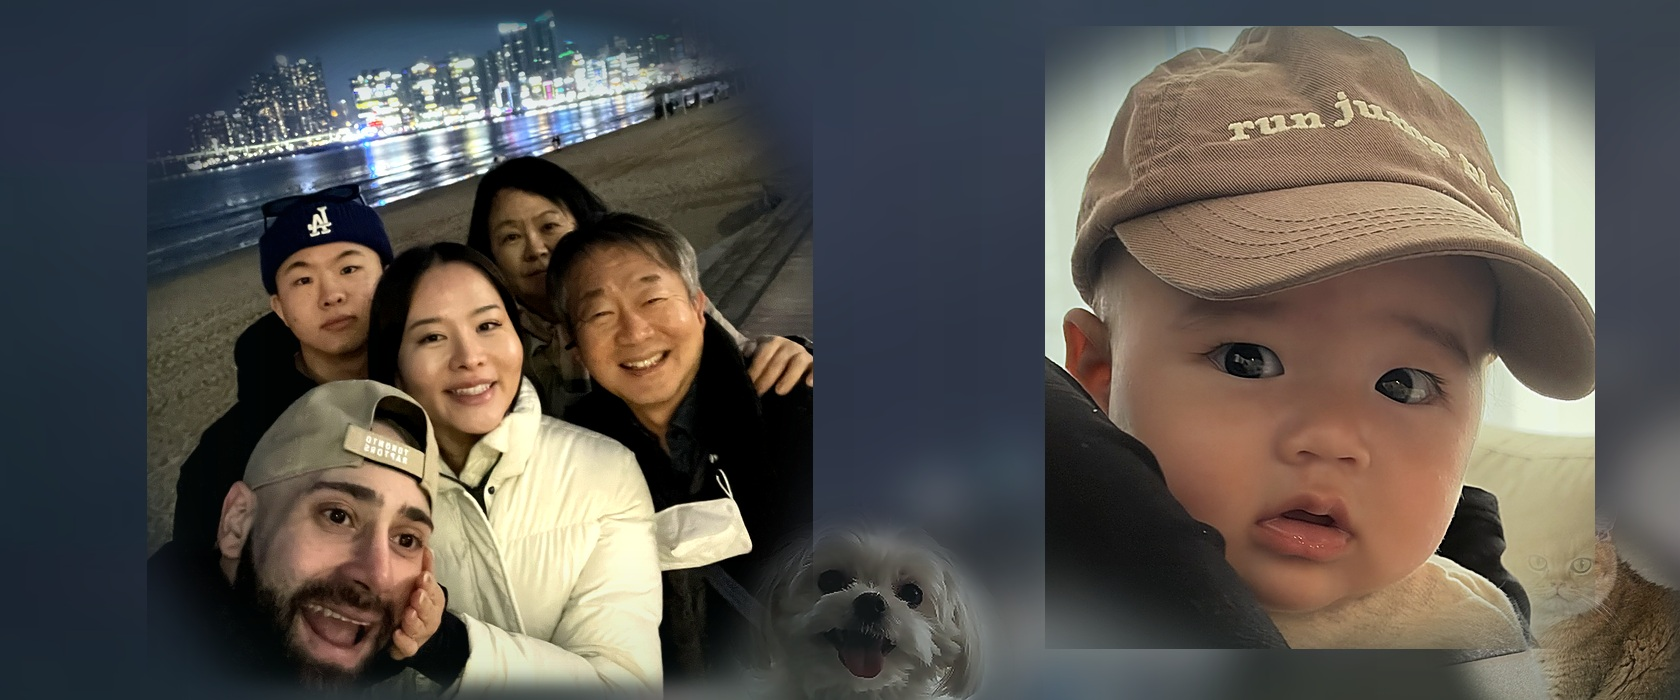
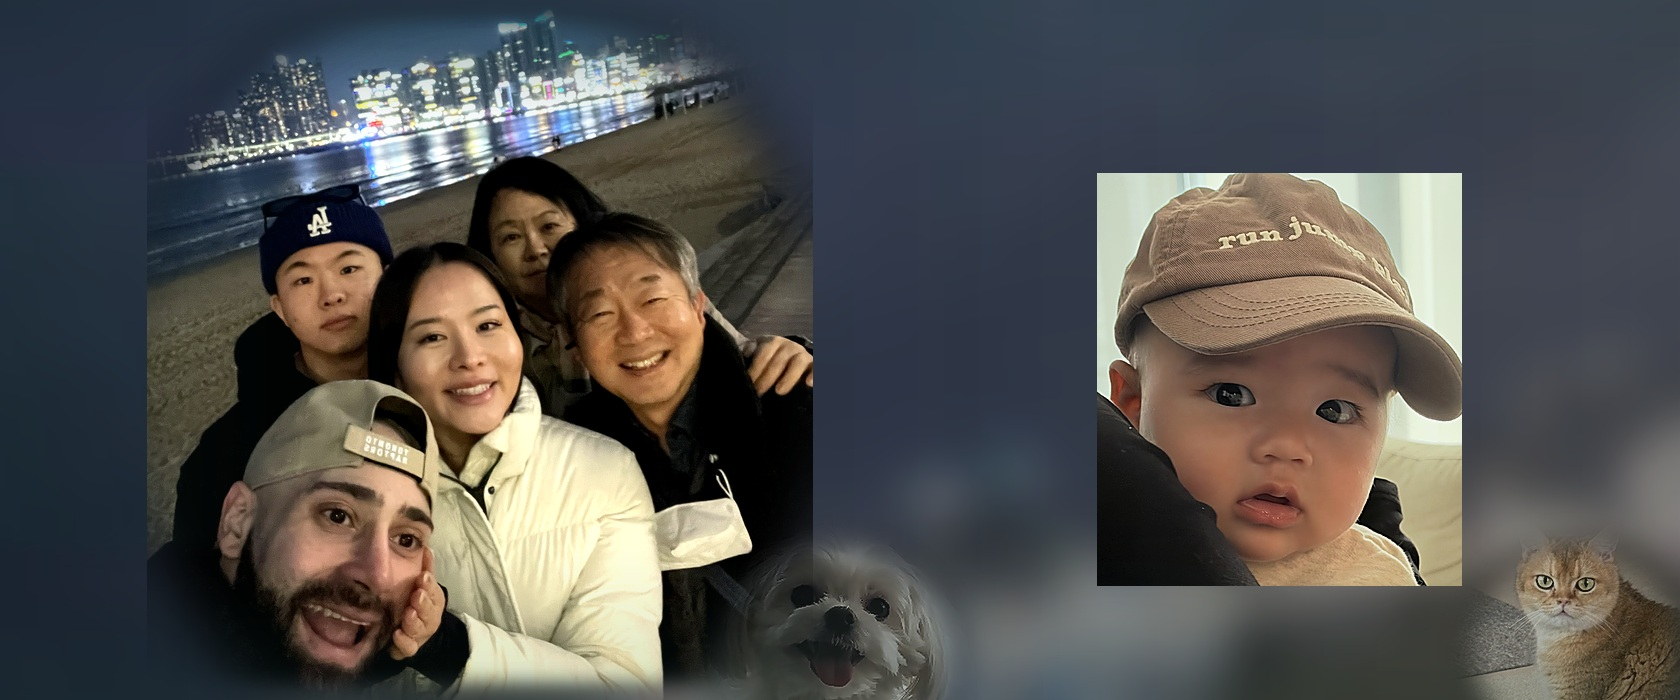
fix: aggressive PC Ace zoom-out so both cheeks stay fully visible
Contain fill 0.48 in a larger plane; wide soft ellipse keeps cheek
alpha at 255. Pets moved lower. Mobile unchanged.

Changed region(s): [[0.619, 0.03, 1.0, 1.0], [0.4643, 0.75, 0.5881, 1.0]]

diff --git a/src/components/family-banner.tsx b/src/components/family-banner.tsx
@@ -28,7 +28,7 @@ export function FamilyBanner({
       <div className="relative aspect-[1170/780] w-full sm:aspect-[1680/700]">
         {/* Mobile asset */}
         <Image
-          src="/ilbiseo-family-banner-mobile.jpg?v=30"
+          src="/ilbiseo-family-banner-mobile.jpg?v=31"
           alt="가족과 반려 — 해변 셀피, 아기, 강아지, 고양이"
           fill
           priority
@@ -38,7 +38,7 @@ export function FamilyBanner({
         />
         {/* PC asset */}
         <Image
-          src="/ilbiseo-family-banner-pc.jpg?v=30"
+          src="/ilbiseo-family-banner-pc.jpg?v=31"
           alt="가족과 반려 — 해변 셀피, 아기, 강아지, 고양이"
           fill
           priority

diff --git a/public/sw.js b/public/sw.js
@@ -1,5 +1,5 @@
 /* 일비서 service worker — offline shell; prefer network so new deploys reach phones */
-const CACHE = "ilbiseo-shell-v30";
+const CACHE = "ilbiseo-shell-v31";
 const PRECACHE = [
   "/manifest.webmanifest",
   "/icons/icon-192.png",

diff --git a/scripts/compose-seamless-banner.py b/scripts/compose-seamless-banner.py
@@ -377,32 +377,35 @@ def compose_pc(fam_src: Image.Image) -> Image.Image:
     fam_mask = soft_right_fade((fw, fh), fade_start=0.84)
     paste_masked(canvas, family, (-48, 0), fam_mask, 1.0)
 
-    # Pets lower/outward — clear of Ace cheeks (PC only)
+    # Pets lower/outward — well clear of Ace cheeks (PC only)
     dog = night_grade(
-        cover_crop(load_dog(), 340, 340, bias=DOG_BIAS), strength=0.36
+        cover_crop(load_dog(), 320, 320, bias=DOG_BIAS), strength=0.36
     )
-    paste_masked(canvas, dog, (700, 480), radial_mask((340, 340), soft=0.55), 0.92)
+    paste_masked(canvas, dog, (680, 500), radial_mask((320, 320), soft=0.55), 0.90)
 
     cat = night_grade(
-        cover_crop(load("03-cat.png"), 320, 320, bias=(0.52, 0.32)), strength=0.34
+        cover_crop(load("03-cat.png"), 300, 300, bias=(0.52, 0.32)), strength=0.34
     )
-    paste_masked(canvas, cat, (1410, 475), radial_mask((320, 320), soft=0.55), 0.92)
+    paste_masked(canvas, cat, (1425, 500), radial_mask((300, 300), soft=0.55), 0.90)
 
-    # Baby/Ace — portrait nearly fills plane; wide soft ellipse keeps BOTH cheeks
-    # fully opaque (soft fade only on outer photo rim). Ace on top. Mobile unchanged.
-    bw, bh = 720, 760
+    # Baby/Ace — AGGRESSIVE zoom-out: visibly smaller face, full cheeks + hat
+    # sides + shoulders/garment like source. Contain << 0.82. Soft ellipse keeps
+    # entire portrait (incl. both cheeks) fully opaque. Ace on top. Mobile unchanged.
+    bw, bh = 820, 860
     baby_src = load(BABY_SRC)
     sw, sh = baby_src.size
-    scale = min(bw / sw, bh / sh) * 0.82
+    scale = min(bw / sw, bh / sh) * 0.48  # much smaller face in slot
     nw, nh = max(1, int(sw * scale + 0.5)), max(1, int(sh * scale + 0.5))
     resized = night_grade(
-        baby_src.resize((nw, nh), Image.Resampling.LANCZOS), strength=0.12
+        baby_src.resize((nw, nh), Image.Resampling.LANCZOS), strength=0.10
     )
     baby_plane = Image.new("RGBA", (bw, bh), (0, 0, 0, 0))
-    ox, oy = (bw - nw) // 2, max(0, (bh - nh) // 2 - 2)
+    ox, oy = (bw - nw) // 2, max(0, (bh - nh) // 2)
     baby_plane.paste(resized, (ox, oy), resized)
-    ace_mask = radial_mask((bw, bh), soft=0.62, rx_scale=1.48, ry_scale=1.18)
-    paste_masked(canvas, baby_plane, (960, -40), ace_mask, 0.99)
+    # soft high + wide rx → whole photo inside opaque zone (cheeks never clipped)
+    ace_mask = radial_mask((bw, bh), soft=0.88, rx_scale=1.35, ry_scale=1.20)
+    # right edge 870+820=1690 → slight clip OK; keep centered on right half
+    paste_masked(canvas, baby_plane, (870, -50), ace_mask, 0.99)
 
     bridge = Image.new("RGBA", (W, H), (0, 0, 0, 0))
     bd = ImageDraw.Draw(bridge)
